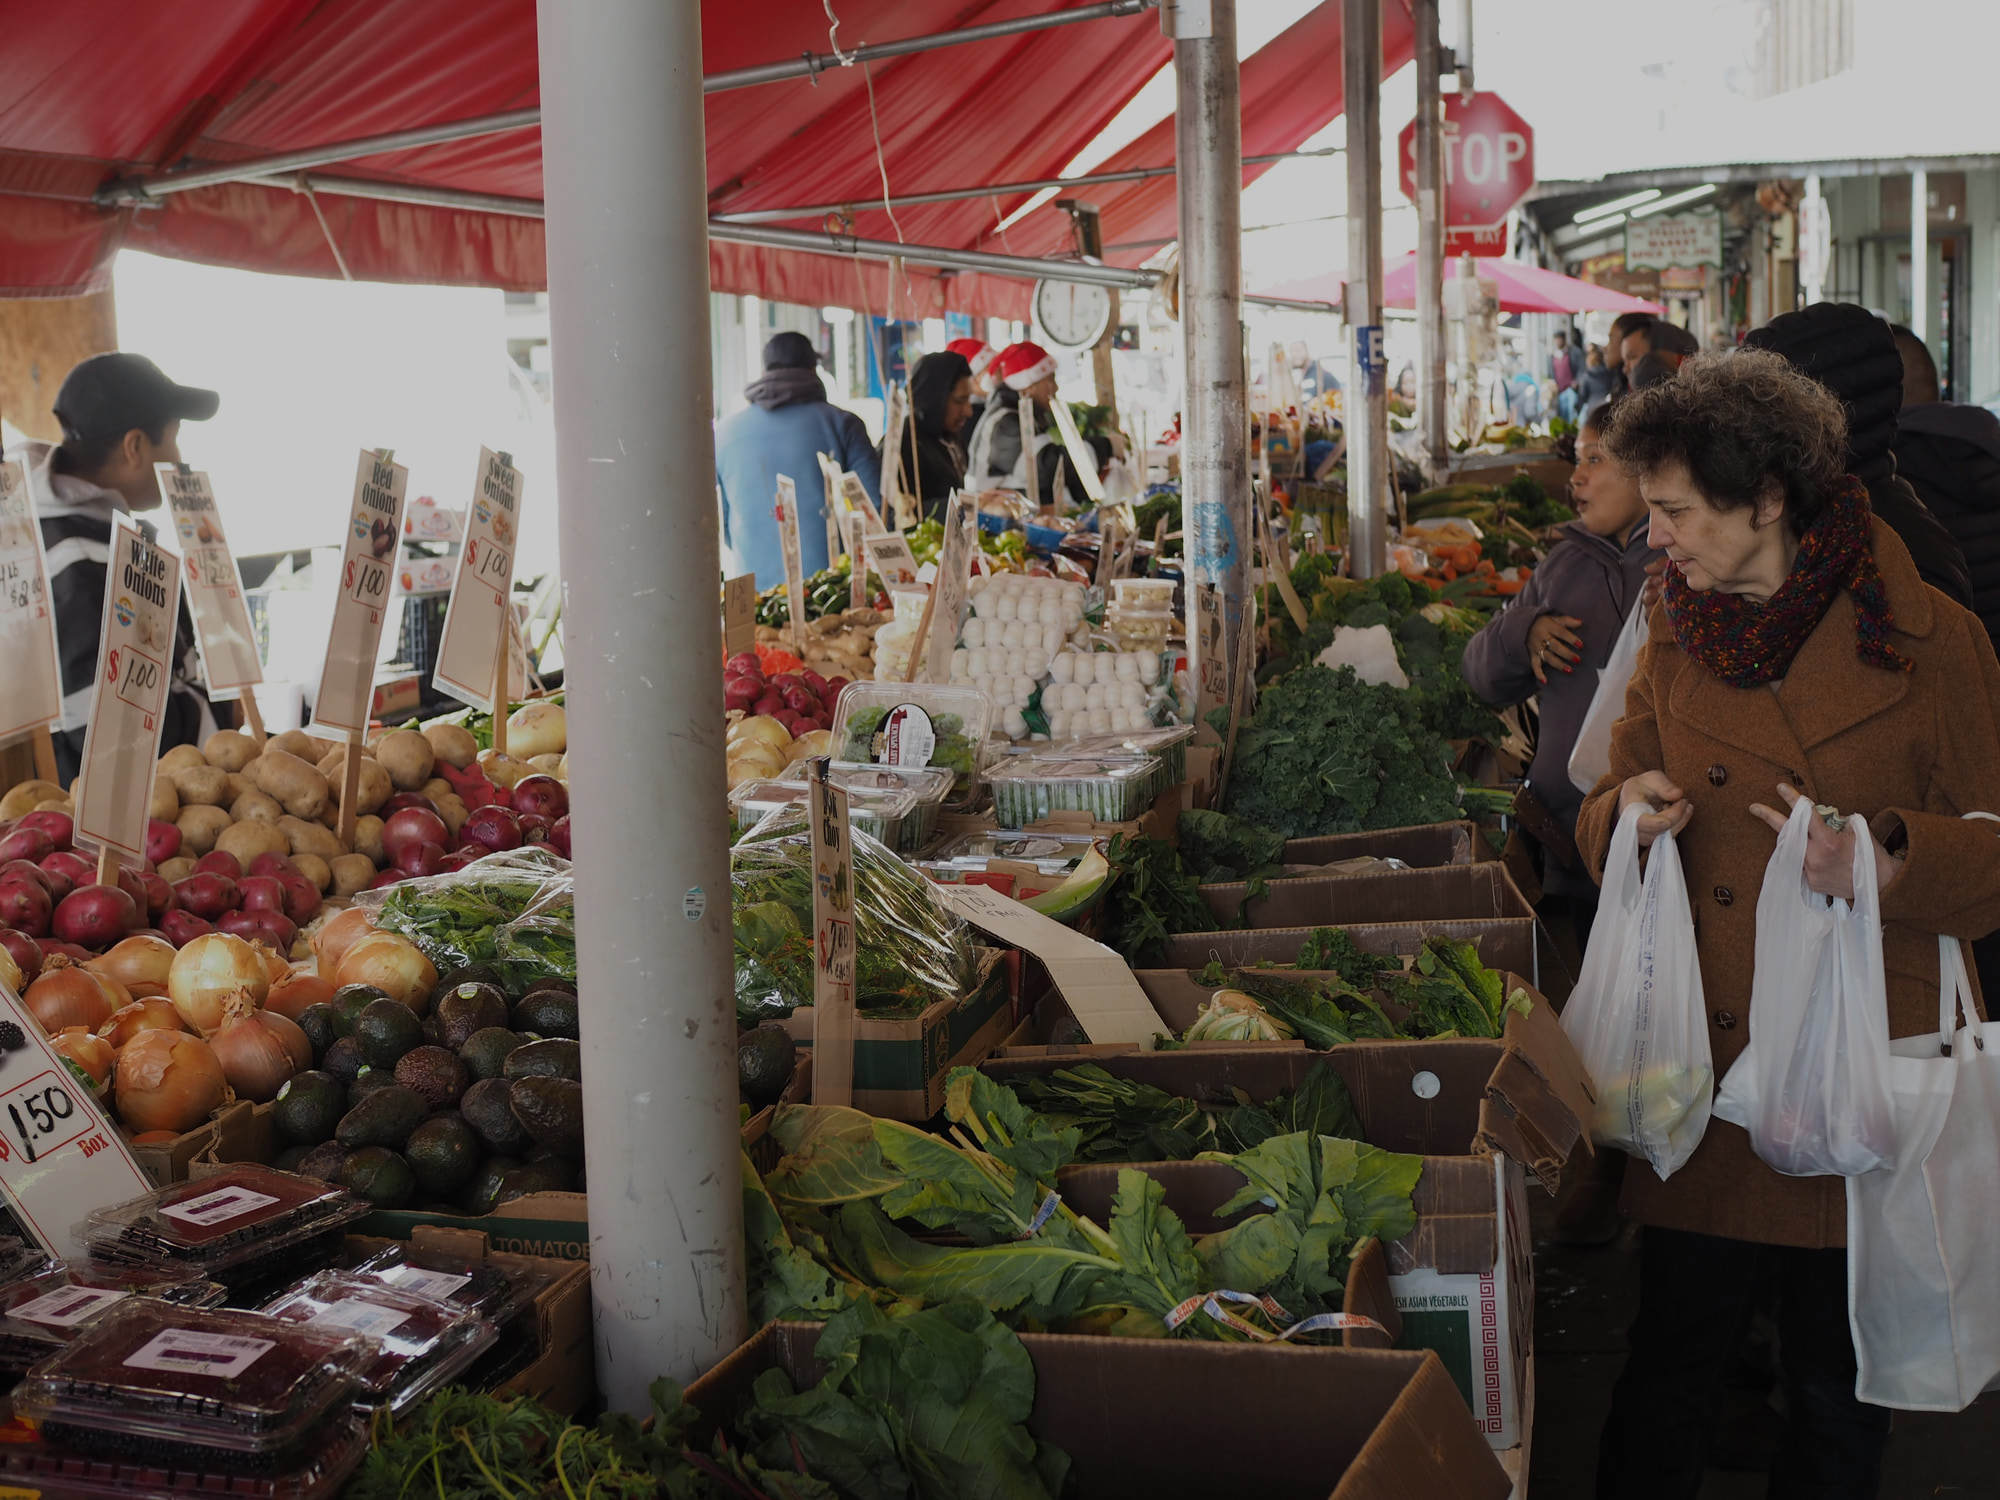
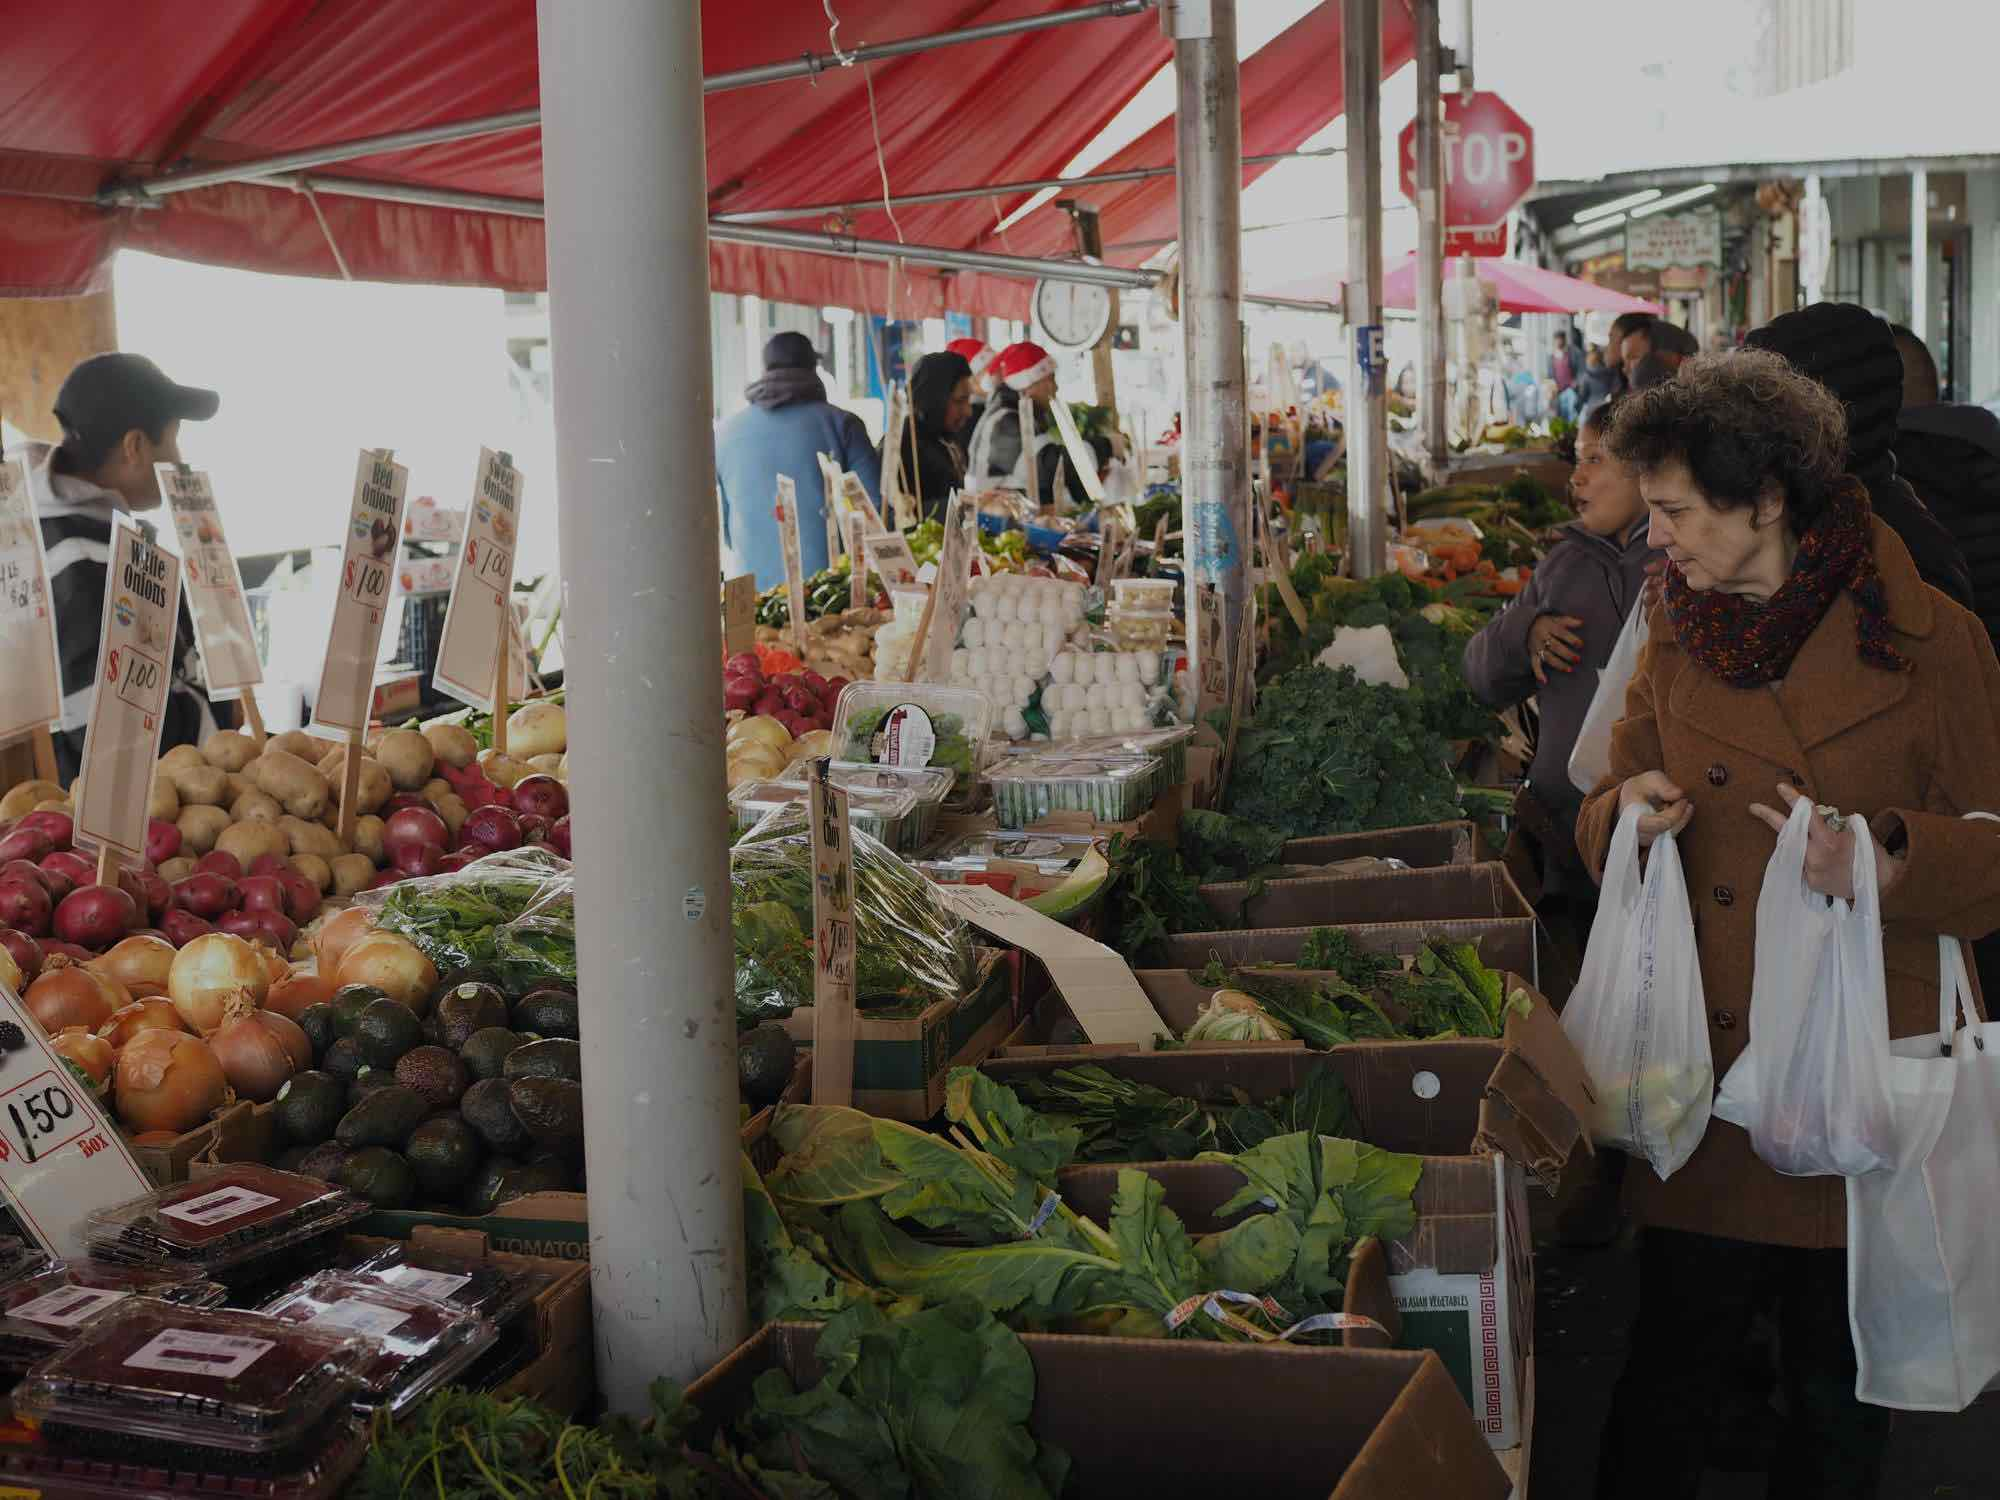
optimize photos

Changed region(s): [[0.434, 0.5827, 0.496, 0.644]]

diff --git a/index.html b/index.html
@@ -365,7 +365,7 @@
                   <table role="presentation" border="0" cellpadding="0" cellspacing="0">
                     <tr>
                       <td>
-                        <img src="images/logo.png" alt="logo">
+                        <img src="images/logo.jpg" alt="logo">
                         <h1 style="color:green;">Open 7 Days a Week 7am-5pm</h1>
                         <p>Come shop the historic 9th Street Curb Market! We carry fresh produce daily, including locally-sourced and imported fruits, herbs, and vegetables.</p>
                         <p>We are conveniently located in the heart of the Italian Market, near Esposito's Meats (1001 S. 9th St, see map below). Please contact us via phone or email if you have a special order, we are able to source products and specialty items through our partners.</p>
@@ -389,11 +389,11 @@
                         </table>
                         <p>See you on the market!</p>
                         <iframe src="https://www.google.com/maps/embed?pb=!1m18!1m12!1m3!1d3059.175883856753!2d-75.16021538465552!3d39.93745529257195!2m3!1f0!2f0!3f0!3m2!1i1024!2i768!4f13.1!3m3!1m2!1s0x89c6c61f73c8e331%3A0x3431a90369176fe8!2s1001%20S%209th%20St%2C%20Philadelphia%2C%20PA%2019147!5e0!3m2!1sen!2sus!4v1577711505569!5m2!1sen!2sus" width="400" height="300" frameborder="0" style="border:0;" allowfullscreen=""></iframe>
-                        <img src="images/p1.png" alt="p1">
-                        <img src="images/p2.png" alt="p2">
-                        <img src="images/p3.png" alt="p3">
-                        <img src="images/p4.png" alt="p4">
-                        <img src="images/p5.png" alt="p5">
+                        <img src="images/p1.jpg" alt="p1">
+                        <img src="images/p2.jpg" alt="p2">
+                        <img src="images/p3.jpg" alt="p3">
+                        <img src="images/p4.jpg" alt="p4">
+                        <img src="images/p5.jpg" alt="p5">
                         <img src="images/main.jpg" alt="main">
                       </td>
                     </tr>
